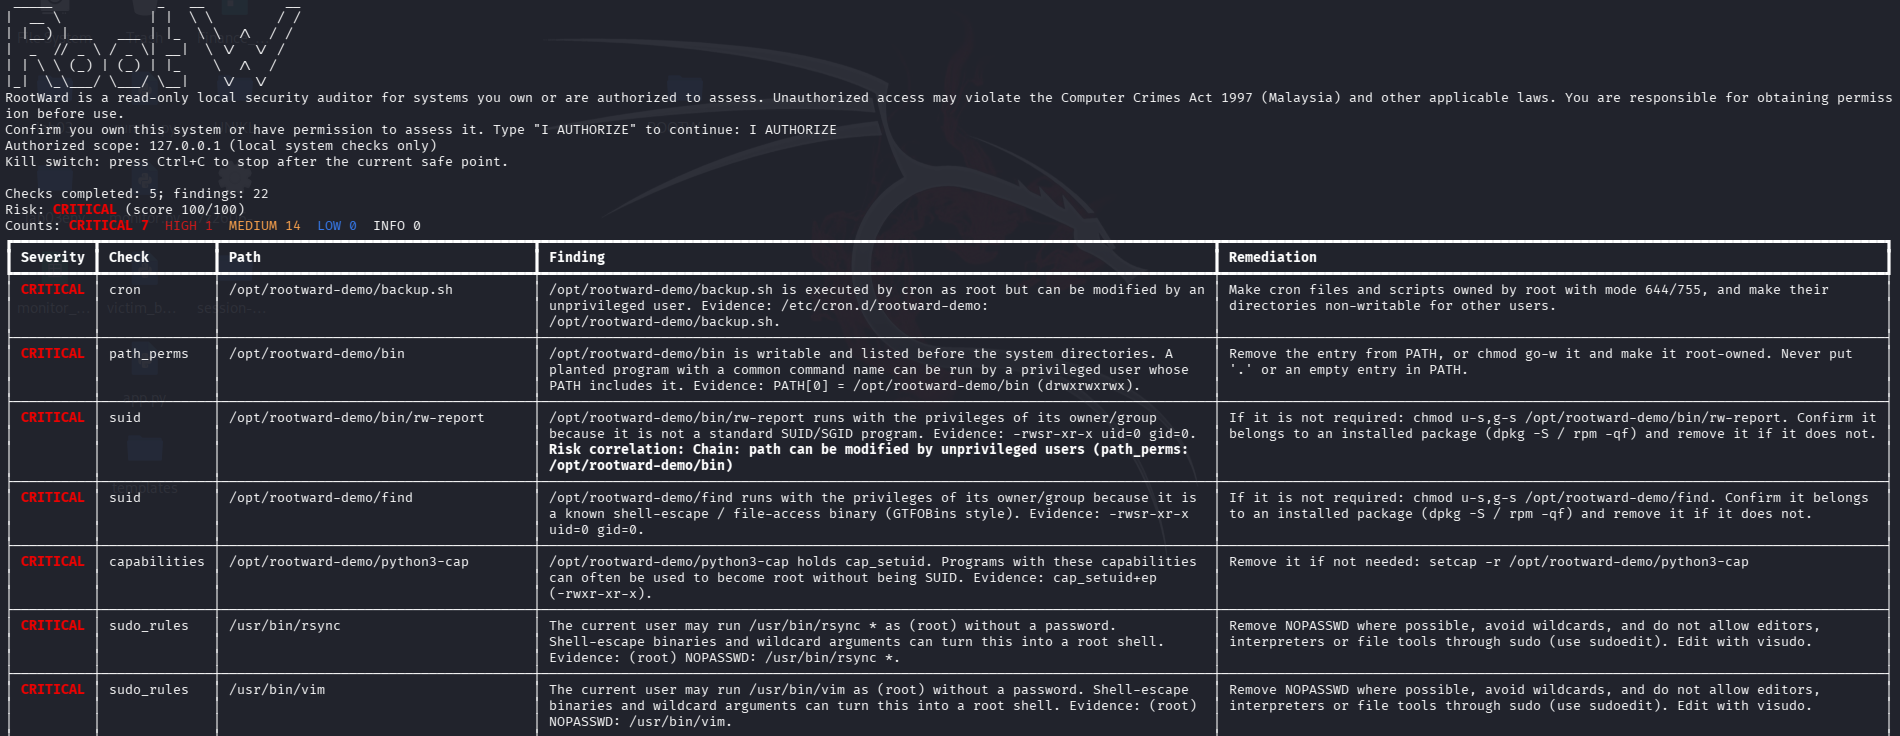
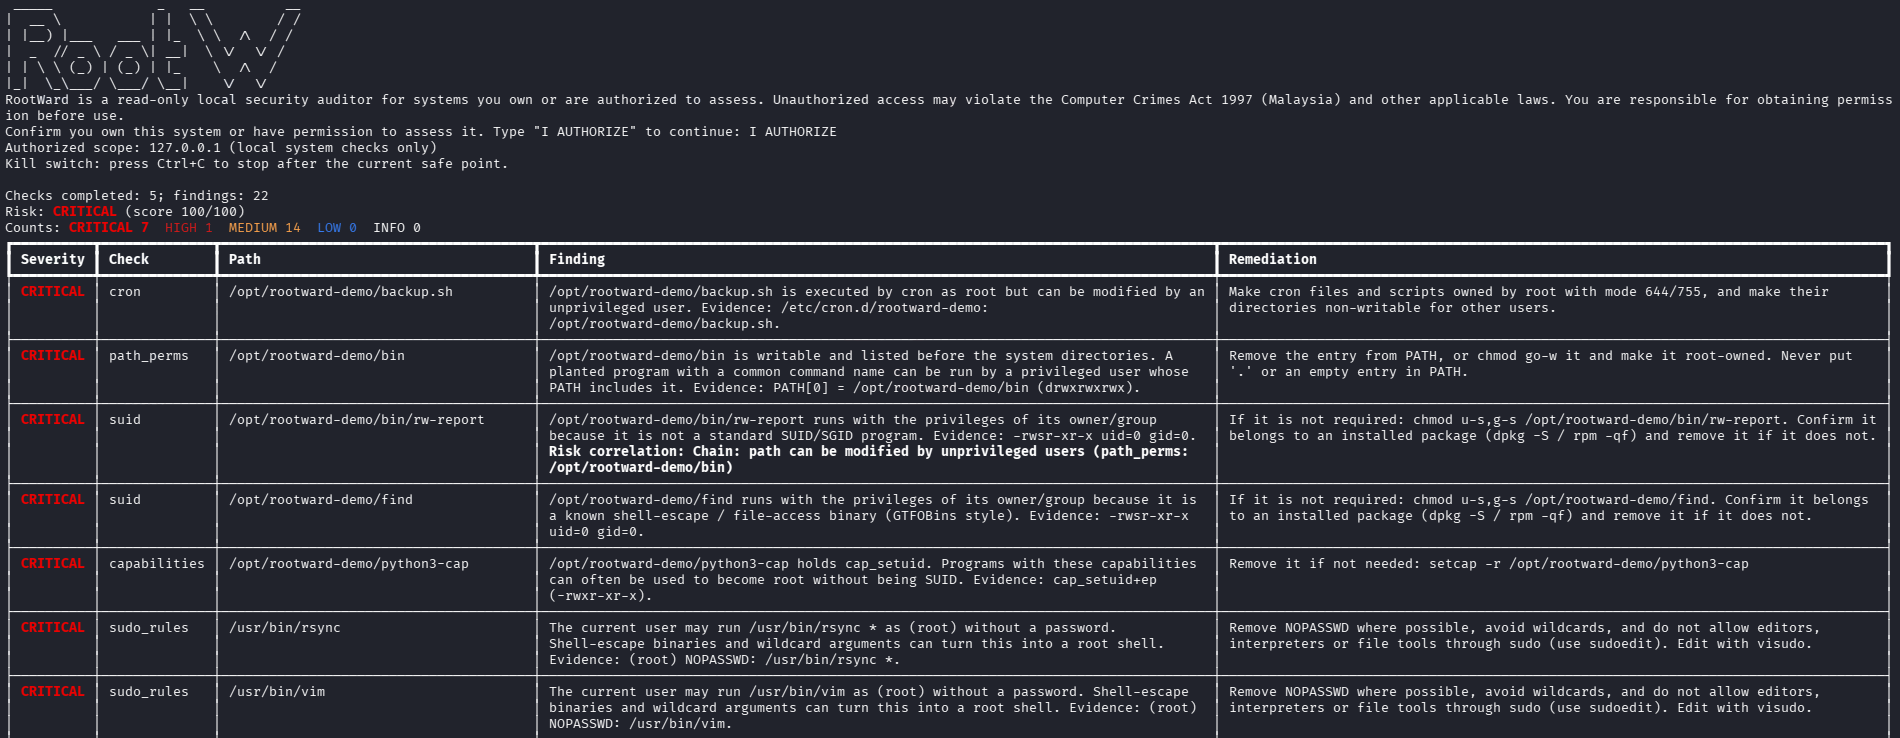
Address the last review notes on demo_vm and the README screenshot
- demo_vm README: drop "(Role B)" from the title and replace "nothing
  here exploits anything" with an honest warning: no exploit is run, but
  the planted weaknesses (SUID find, cap_setuid python, a root cron job
  running a world-writable script) are real until cleanup, so use a
  disposable VM on a host-only or NAT network and clean up right after
- setup_misconfig.sh and verify_on_vm.sh stop if the user rwdemo already
  exists, since cleanup would delete it
- docs/scan-example.png: the faint Kali desktop icons and wallpaper
  behind the terminal are flattened to the terminal background; the
  text and table are unchanged
- README caption says the image stops after the vim row and that the 14
  MEDIUM SUID findings below it are Kali's own programs

diff --git a/demo_vm/README.md b/demo_vm/README.md
@@ -1,4 +1,4 @@
-# RootWard demo VM (Role B)
+# RootWard demo VM
 
 Scripts that deliberately misconfigure a **disposable Linux test VM** so RootWard has something to find during the live PoC. Everything is reversible and limited to fixed paths.
 
@@ -52,7 +52,7 @@ Optional, for the screenshot: `sudo ./run_demo.sh --cli` runs the real tool as `
 | *(not planted)* `run_demo.sh` also puts `/usr/local/bin` in `PATH`; on stock Debian it is `root:staff 2775` | `path_perms` | one extra MEDIUM "System PATH directory writable by group staff" on Debian only; absent on Kali and Ubuntu |
 | *(not planted)* the SUID programs the distribution already has | `suid` | MEDIUM each when they are not on the allowlist; on Kali Rolling with Kismet installed that is about 14 lines (`kismet_cap_*`, `rsh-redone-*`, `pppd`); they sort below the CRITICAL findings |
 
-The cron job only appends a timestamp to `/opt/rootward-demo/backup.log`; nothing here exploits anything.
+The cron job only appends a timestamp to `/opt/rootward-demo/backup.log`, and nothing here runs an exploit. But the planted weaknesses are real: until the cleanup runs, a local user on that machine can become root through the SUID `find`, the `python3-cap` binary with `cap_setuid`, or the root cron job that runs a world-writable script every 5 minutes. Use a disposable VM on a host-only or NAT network, and run the cleanup right after the screenshot.
 
 ## Notes
 - `run_demo.sh` copies the repository's `rootward/` package to a temporary directory so the demo user can read it, and removes the copy afterwards.

diff --git a/README.md b/README.md
@@ -51,7 +51,7 @@ Beyond the individual checks:
 
 ![RootWard scanning the demo VM: banner, authorization prompt and a table of findings; the SUID rw-report finding shows the path chain](docs/scan-example.png)
 
-*A scan of the demo VM (Kali Rolling) after `demo_vm/setup_misconfig.sh`: the planted misconfigurations are reported as CRITICAL, and the `rw-report` finding carries the "Risk correlation: Chain" line. The table continues with Kali's own SUID programs at MEDIUM.*
+*A scan of the demo VM (Kali Rolling) after `demo_vm/setup_misconfig.sh`: the planted misconfigurations are reported as CRITICAL, and the `rw-report` finding carries the "Risk correlation: Chain" line. The image stops after the `vim` row. The full scan has 22 findings (7 CRITICAL, 1 HIGH, 14 MEDIUM); the 14 MEDIUM ones below it are Kali's own SUID programs (Kismet, `rsh-redone`, `pppd`) and are not shown.*
 
 ## Attack lifecycle mapping
 
